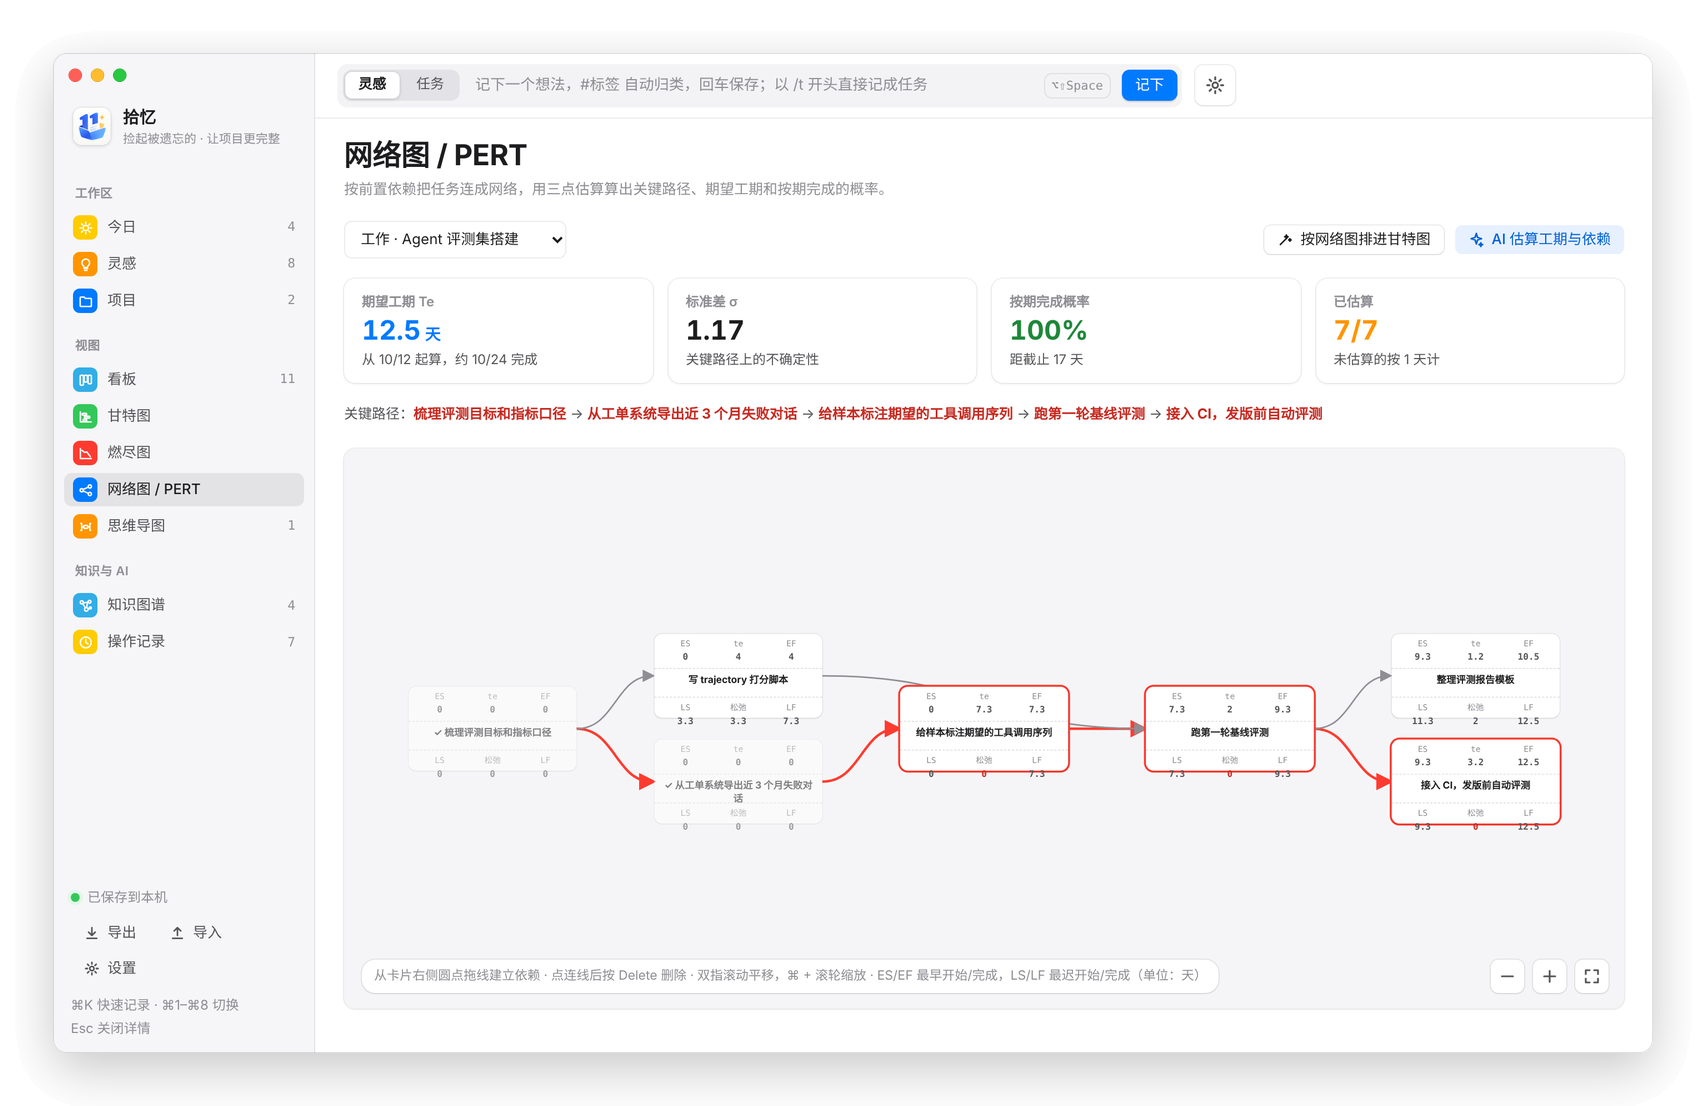
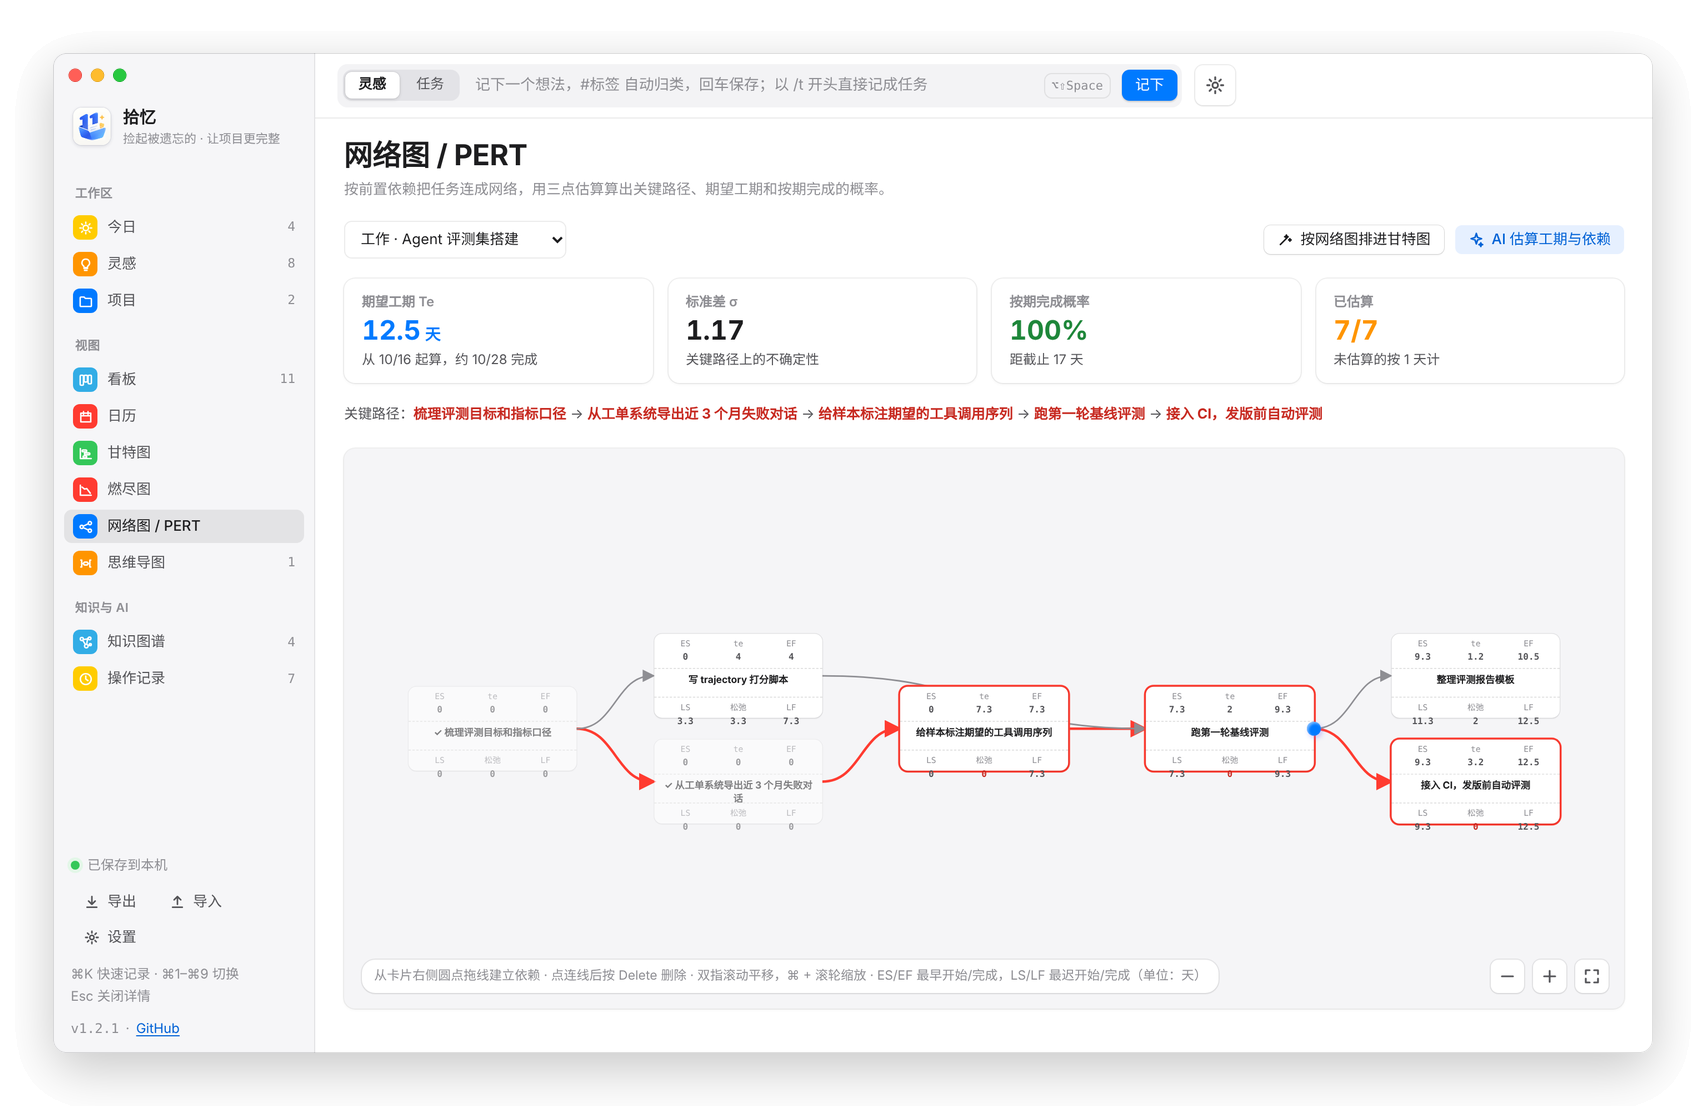
README：补上日历、一键更新、AI 补全排日期等新内容，重新生成截图
- 新增日历截图与说明；亮点加入 macOS/Windows 与一键更新
- AI 补全任务说明补充前置与排日期；说明对带思考过程模型的兼容
- 目录结构补 ai.rs、update.rs、update.js
- 截图脚本模拟 Mac 平台渲染（显示 ⌘、⌥⇧Space），截图时不弹更新提示

Claude-Session: https://claude.ai/code/session_017SpTzLsBopcBvD6Ewedaaq

Changed region(s): [[0.0311, 0.3689, 0.1243, 0.6456], [0.0311, 0.7685, 0.1243, 0.953], [0.7456, 0.6456, 0.7767, 0.6763]]

diff --git a/scripts/screenshots.py b/scripts/screenshots.py
@@ -18,7 +18,7 @@ OUT = ROOT / "docs" / "screenshots"
 DB = TMP / "shots.db"
 PORT = 8798
 CLI = ROOT / "core/target/debug/shiyi"
-env = {**os.environ, "SHIYI_DB": str(DB)}
+env = {**os.environ, "SHIYI_DB": str(DB), "SHIYI_FAKE_UPDATE": "none"}
 
 
 def cli(*args, agent="claude"):
@@ -35,12 +35,15 @@ def apply(ops, agent="claude"):
 
 subprocess.run([sys.executable, str(ROOT / "scripts/build-preview.py")], check=True)
 RAW.mkdir(parents=True)
-server = subprocess.Popen([sys.executable, str(ROOT / "scripts/e2e/serve.py"), "--db", str(DB), "--port", str(PORT)])
+server = subprocess.Popen([sys.executable, str(ROOT / "scripts/e2e/serve.py"), "--db", str(DB), "--port", str(PORT)], env=env)
 time.sleep(1.2)
 try:
     with sync_playwright() as p:
         b = p.chromium.launch()
-        pg = b.new_page(viewport={"width": 1440, "height": 900}, device_scale_factor=2)
+        ctx = b.new_context(viewport={"width": 1440, "height": 900}, device_scale_factor=2)
+        # the screenshots show the Mac app (⌘ / ⌥⇧Space), whatever machine renders them
+        ctx.add_init_script("Object.defineProperty(navigator, 'platform', { get: () => 'MacIntel' })")
+        pg = ctx.new_page()
         pg.goto(f"http://127.0.0.1:{PORT}/")
         pg.wait_for_function("window.SY && SY.S.ready && SY.S.data.tasks.size > 0", timeout=10000)
         pg.wait_for_timeout(500)
@@ -100,6 +103,10 @@ try:
         shot("burndown")
         view("kanban", scope="all", kbSwim=False)
         shot("kanban")
+
+        view("calendar", scope="all", calMonth=None)
+        pg.evaluate("SY.S.ui.calMonth = SY.TODAY().slice(0, 7); SY.scheduleRender()")
+        shot("calendar")
 
         # capture an idea: related items are suggested without AI
         view("ideas", ideaFilter="inbox")
